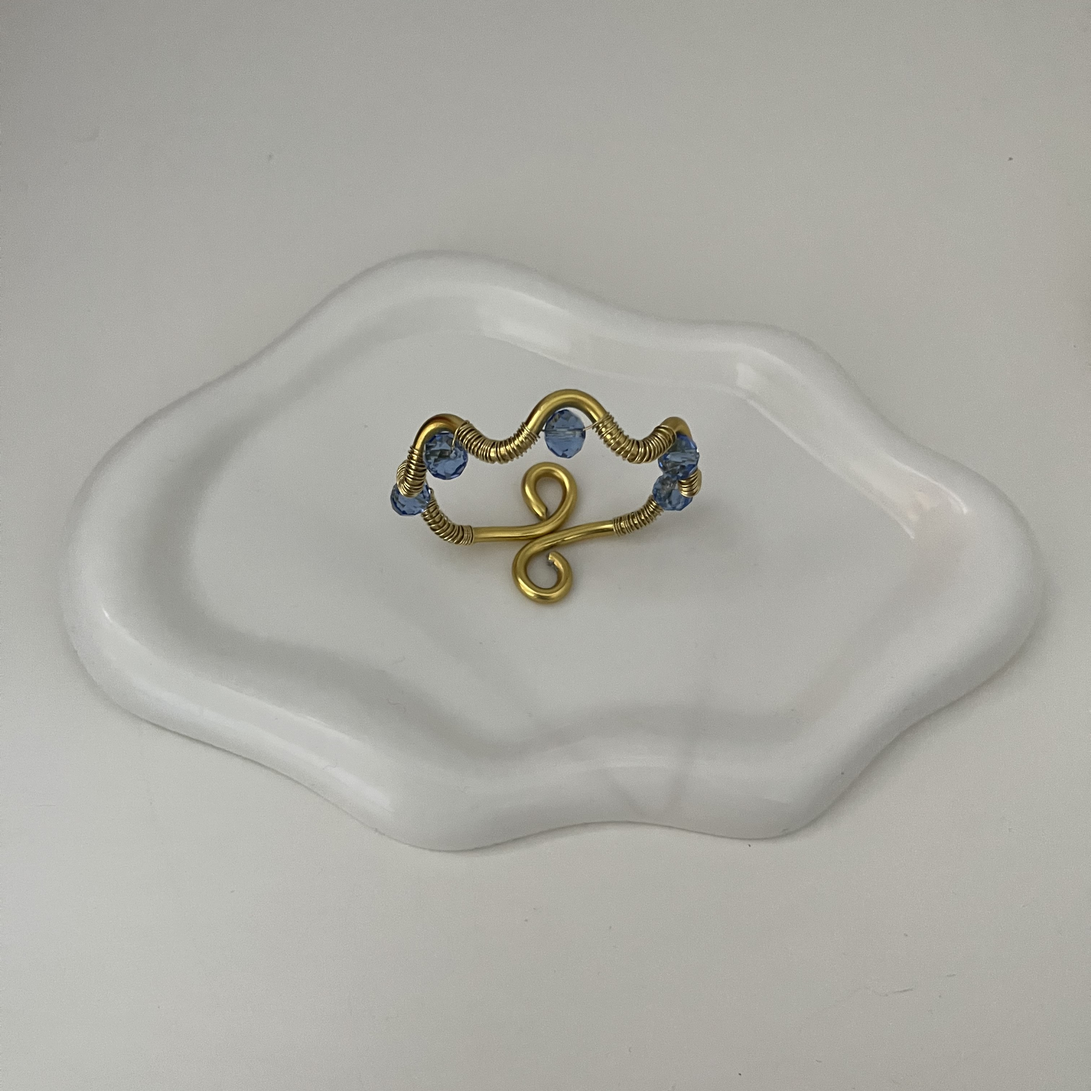
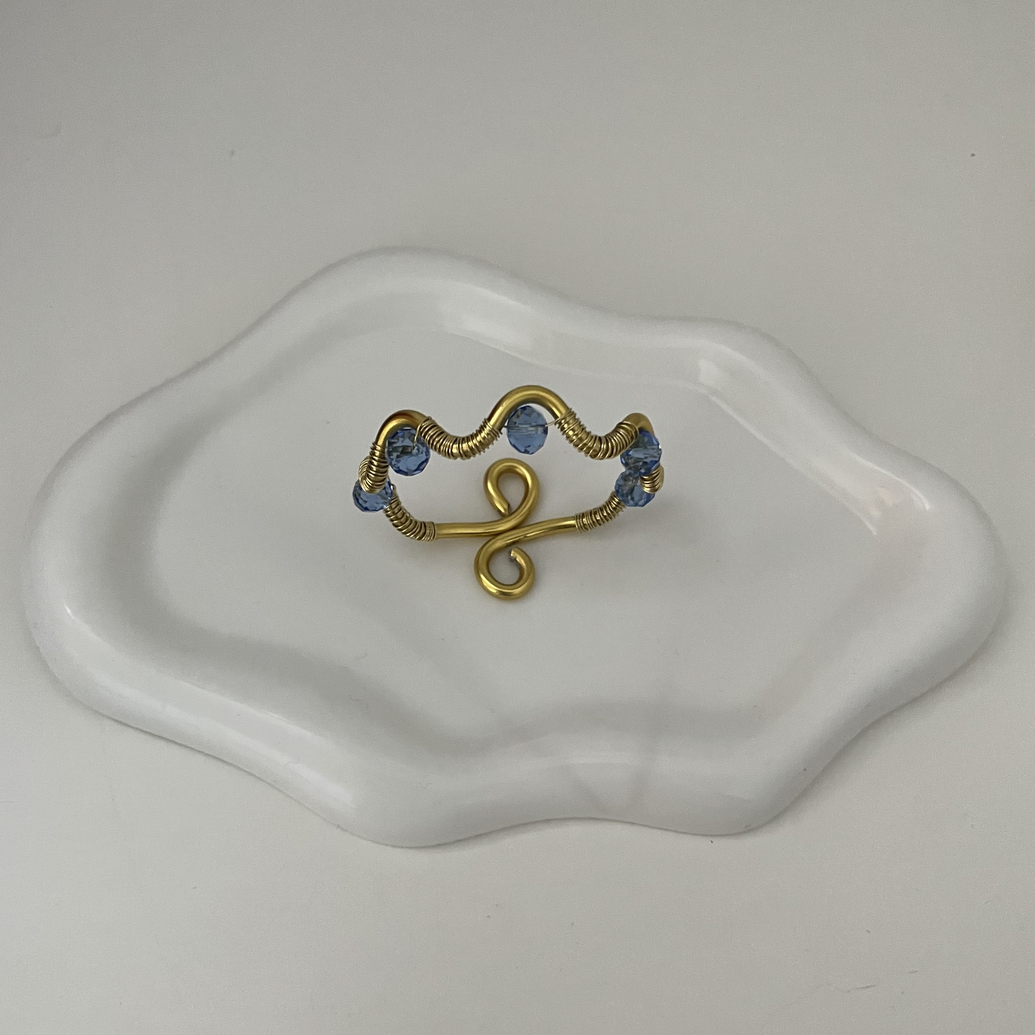
m

diff --git a/boutique.html b/boutique.html
@@ -43,7 +43,7 @@
         <h3>Maude Violet</h3>
         <p class="prix">3,50 €</p>
       </a>
-      <a href="produit.html?nom=Maude Bleu&prix=3.50&photo=maudebleu.jpeg&stock= 6" class="carte">
+      <a href="produit.html?nom=Maude Bleu&prix=3.50&photo=maudebleu.jpeg&stock= 3" class="carte">
         <img src="images/maudebleu.jpeg" alt="Maude Bleu" />
         <h3>Maude Bleu</h3>
         <p class="prix">3,50 €</p>
